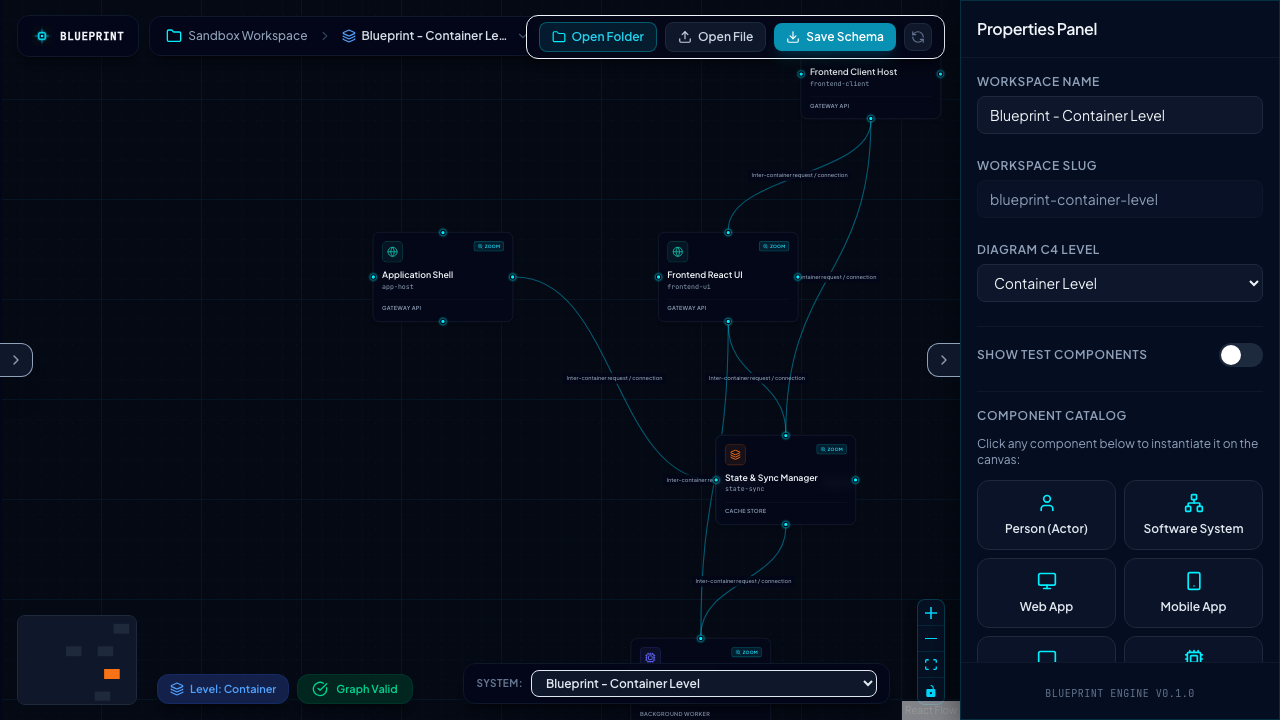
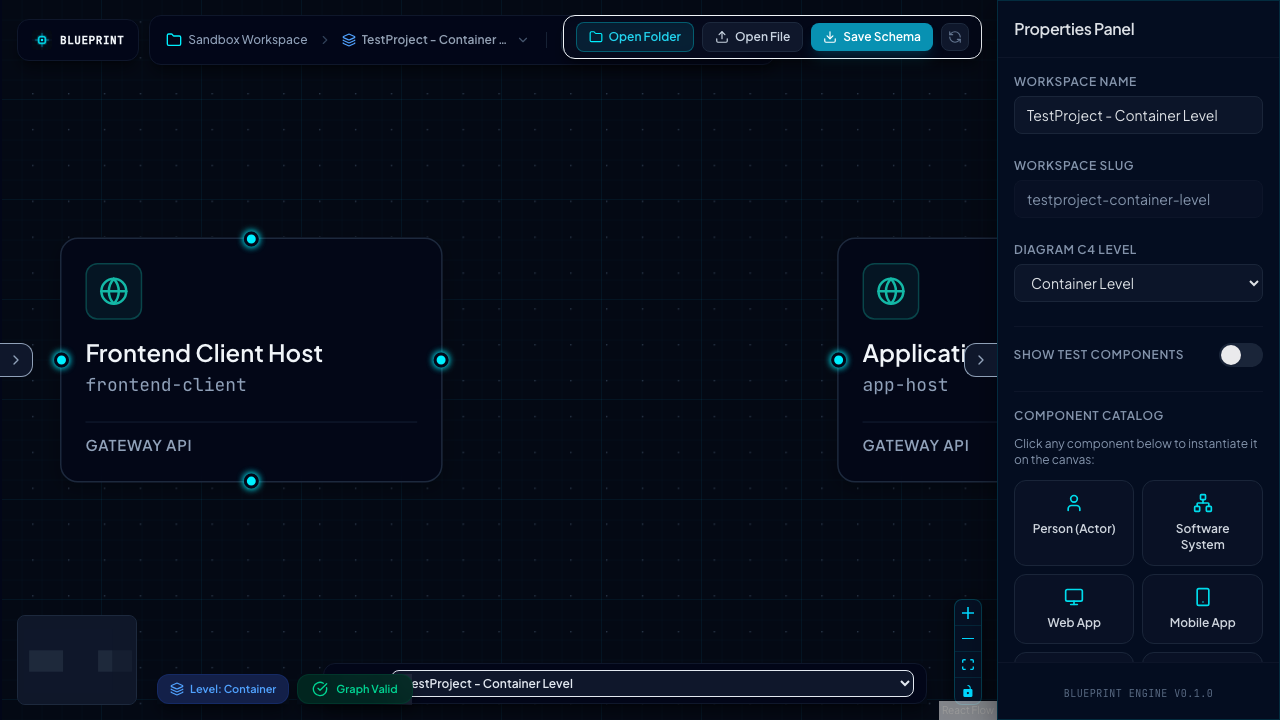
test: update e2e visual regression test project naming and refresh associated screenshots

diff --git a/tests/e2e.spec.ts b/tests/e2e.spec.ts
@@ -45,12 +45,14 @@ test.describe('Blueprint E2E Journeys', () => {
   });
 
   test('Visual C4 Navigation (Zoom In / Zoom Out / URL Routing)', async ({ page }) => {
-    await page.goto('/workspace/blueprint-container-level');
+    await page.goto('/workspace/testproject-container-level');
 
     await page.locator('button[aria-label="Toggle Right Panel"]').click();
 
-    await expect(page.locator('#workspace-name-input')).toHaveValue('Blueprint - Container Level');
-    await expect(page.locator('#workspace-slug-input')).toHaveValue('blueprint-container-level');
+    await expect(page.locator('#workspace-name-input')).toHaveValue(
+      'TestProject - Container Level'
+    );
+    await expect(page.locator('#workspace-slug-input')).toHaveValue('testproject-container-level');
 
     await page.screenshot({ path: 'screenshots/3-container-level.png' });
 
@@ -62,20 +64,22 @@ test.describe('Blueprint E2E Journeys', () => {
     await appShellNode.dblclick();
 
     await expect(page.locator('#workspace-name-input')).toHaveValue(
-      'Blueprint - Application Shell Components'
+      'TestProject - Application Shell Components'
     );
     await expect(page.locator('#workspace-slug-input')).toHaveValue(
-      'blueprint-application-shell-components'
+      'testproject-application-shell-components'
     );
-    expect(page.url()).toContain('/workspace/blueprint-application-shell-components');
+    expect(page.url()).toContain('/workspace/testproject-application-shell-components');
 
     await page.screenshot({ path: 'screenshots/4-zoomed-in-components.png' });
 
     await page.keyboard.press('Escape');
 
-    await expect(page.locator('#workspace-name-input')).toHaveValue('Blueprint - Container Level');
-    await expect(page.locator('#workspace-slug-input')).toHaveValue('blueprint-container-level');
-    expect(page.url()).toContain('/workspace/blueprint-container-level');
+    await expect(page.locator('#workspace-name-input')).toHaveValue(
+      'TestProject - Container Level'
+    );
+    await expect(page.locator('#workspace-slug-input')).toHaveValue('testproject-container-level');
+    expect(page.url()).toContain('/workspace/testproject-container-level');
 
     await page.screenshot({ path: 'screenshots/5-zoomed-back-out.png' });
   });
